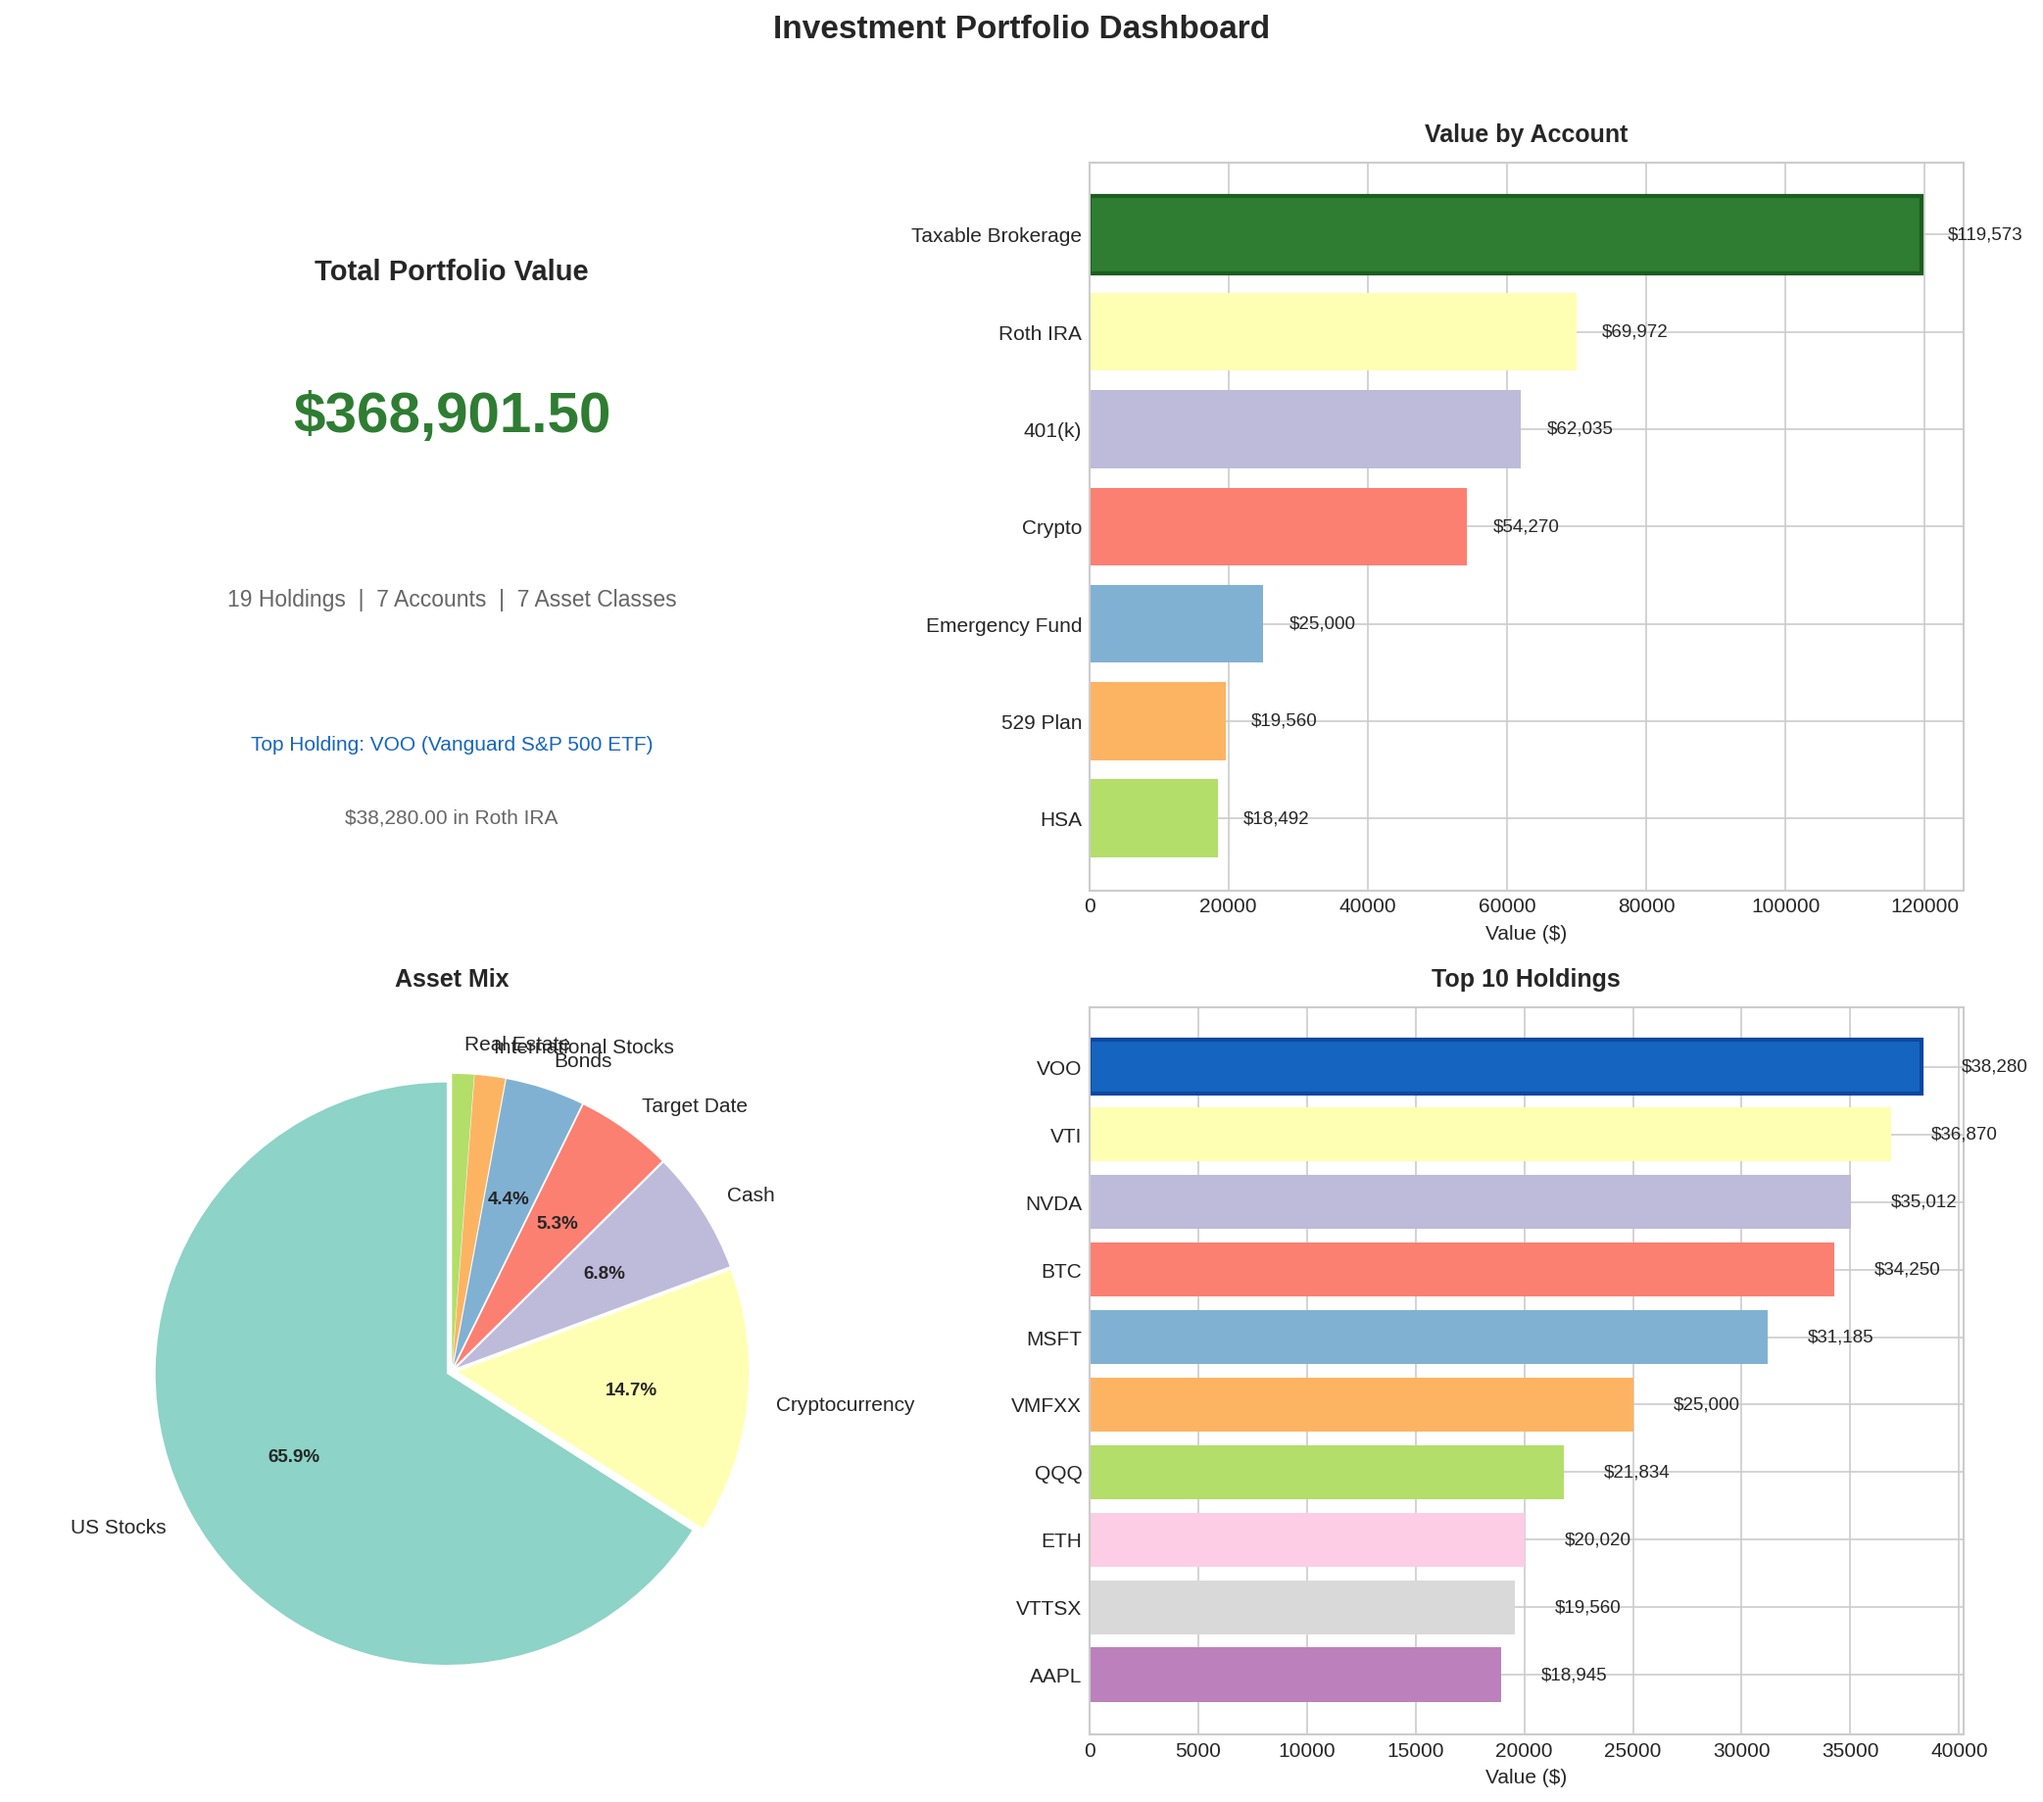
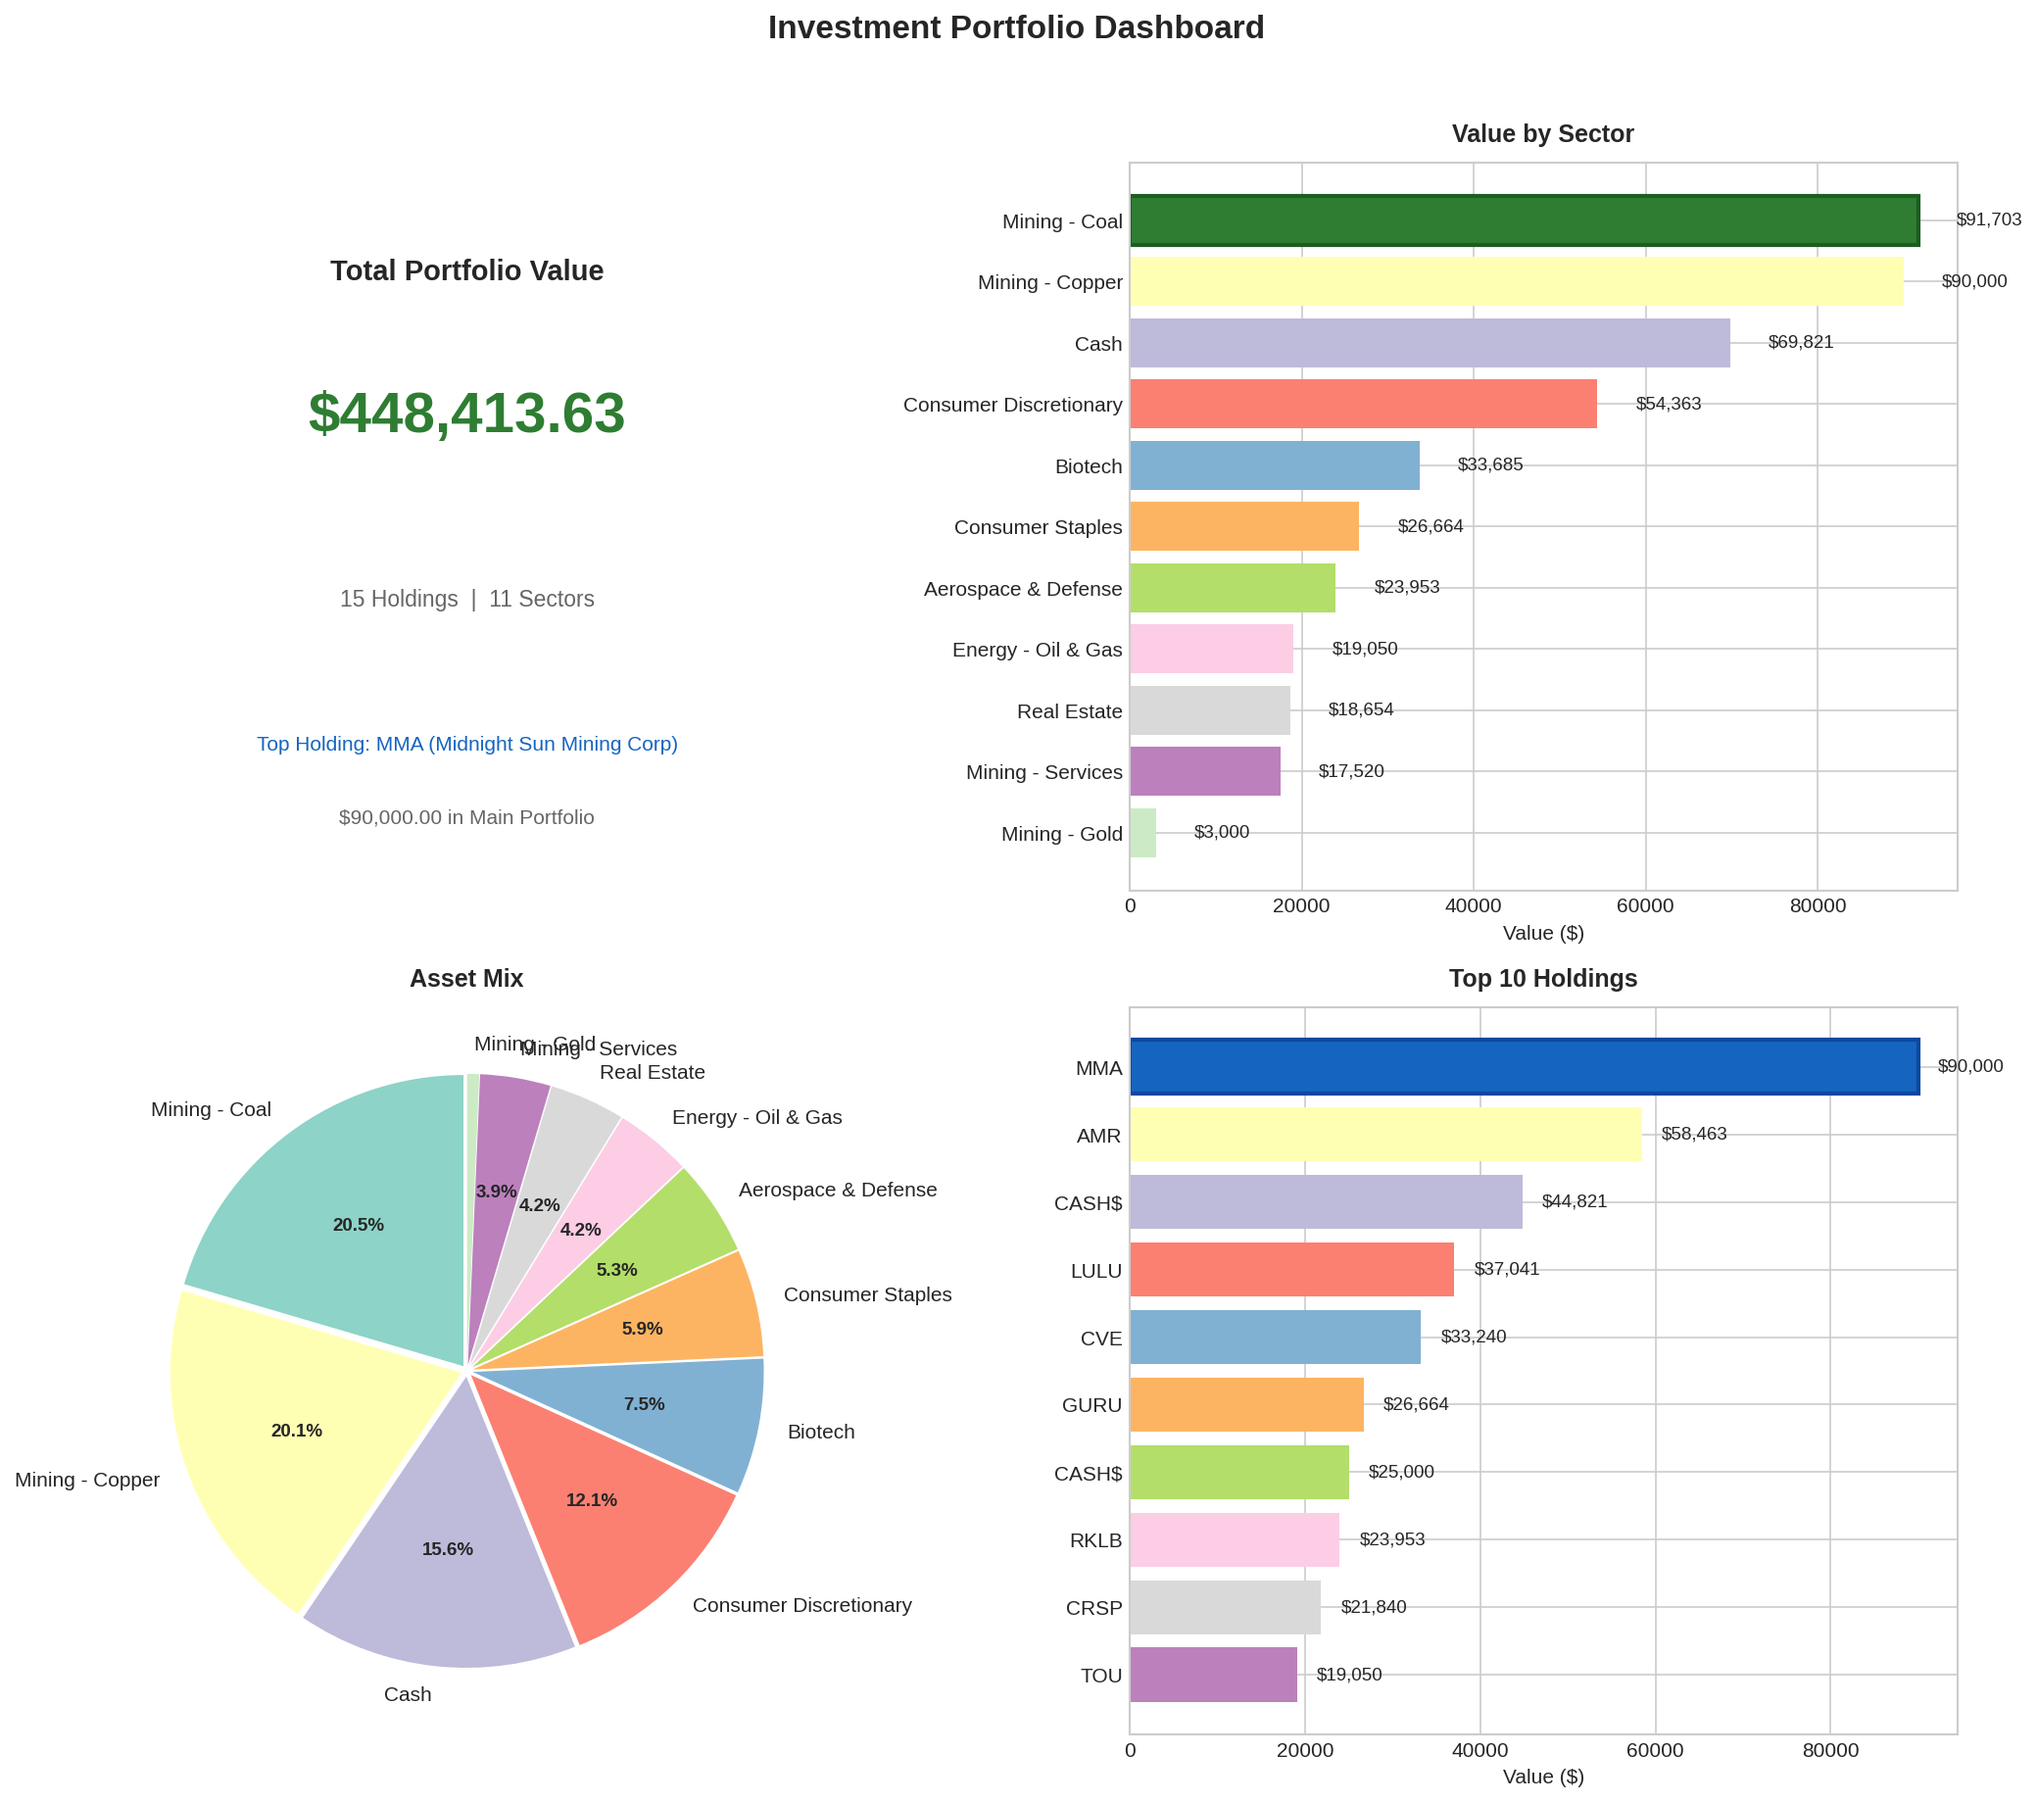
Update visualizer to support Portfolio.ods format
- Add automatic format detection for Portfolio.ods (data-first, headers-later)
- Add asset class inference from ticker/company name
- Show sector breakdown when single account
- Update default file to Portfolio.ods
- Regenerate dashboard with actual portfolio data ($448,413.63 total)

https://claude.ai/code/session_013XgPKdLBRTxDtf2VREobrx

diff --git a/portfolio_visualizer.py b/portfolio_visualizer.py
@@ -16,6 +16,49 @@ import matplotlib.pyplot as plt
 from pathlib import Path
 
 
+# Asset class mappings based on ticker/name patterns
+ASSET_CLASS_RULES = {
+    'CASH$': 'Cash',
+    'MMA': 'Mining - Copper',
+    'AMR': 'Mining - Coal',
+    'CVE': 'Mining - Coal',
+    'WM': 'Mining - Gold',
+    'FAR': 'Mining - Services',
+    'TOU': 'Energy - Oil & Gas',
+    'LAND': 'Real Estate',
+    'LULU': 'Consumer Discretionary',
+    'GURU': 'Consumer Staples',
+    'PZZA': 'Consumer Discretionary',
+    'RKLB': 'Aerospace & Defense',
+    'CRSP': 'Biotech',
+    'BEAM': 'Biotech',
+}
+
+
+def infer_asset_class(ticker: str, name: str) -> str:
+    """Infer asset class from ticker or company name."""
+    ticker = str(ticker).upper()
+    name = str(name).lower()
+
+    # Check direct ticker mapping
+    if ticker in ASSET_CLASS_RULES:
+        return ASSET_CLASS_RULES[ticker]
+
+    # Infer from name patterns
+    if 'mining' in name or 'coal' in name or 'metallurgical' in name:
+        return 'Mining'
+    if 'oil' in name or 'gas' in name or 'energy' in name:
+        return 'Energy'
+    if 'cash' in name:
+        return 'Cash'
+    if 'therapeutics' in name or 'biotech' in name or 'crispr' in name:
+        return 'Biotech'
+    if 'land' in name or 'real estate' in name or 'reit' in name:
+        return 'Real Estate'
+
+    return 'Equities'
+
+
 def load_portfolio_data(ods_file: str) -> pd.DataFrame:
     """Load investment data from an ODS file into a pandas DataFrame."""
     data = pyexcel.get_array(file_name=ods_file)
@@ -23,19 +66,51 @@ def load_portfolio_data(ods_file: str) -> pd.DataFrame:
     if not data or len(data) < 2:
         raise ValueError("ODS file is empty or has no data rows")
 
-    # First row is header
-    header = data[0]
-    rows = data[1:]
+    # Detect format: check if first row looks like headers or data
+    first_row = data[0]
 
-    df = pd.DataFrame(rows, columns=header)
+    # Check for Portfolio.ods format (data first, headers later)
+    # In this format, row 15 contains headers like 'Name', 'Ticker', etc.
+    is_portfolio_format = False
+    for i, row in enumerate(data):
+        if len(row) > 0 and row[0] == 'Name' and len(row) > 1 and row[1] == 'Ticker':
+            is_portfolio_format = True
+            header_row = i
+            break
+
+    if is_portfolio_format:
+        # Portfolio.ods format: data rows come before header row
+        header = ['Name', 'Ticker', 'Price', 'Shares', 'Value', 'Percentage', 'Change', 'Extra1', 'Extra2']
+        rows = []
+        for row in data[:header_row]:
+            # Skip empty rows or rows without valid data
+            if len(row) >= 5 and row[0] and row[4]:
+                try:
+                    value = float(row[4]) if row[4] else 0
+                    if value > 0:
+                        rows.append(row[:9] if len(row) >= 9 else row + [''] * (9 - len(row)))
+                except (ValueError, TypeError):
+                    continue
+
+        df = pd.DataFrame(rows, columns=header)
+    else:
+        # Standard format: first row is header
+        header = data[0]
+        rows = data[1:]
+        df = pd.DataFrame(rows, columns=header)
 
     # Ensure numeric columns are proper types
-    if 'Value' in df.columns:
-        df['Value'] = pd.to_numeric(df['Value'], errors='coerce')
-    if 'Shares' in df.columns:
-        df['Shares'] = pd.to_numeric(df['Shares'], errors='coerce')
-    if 'Price' in df.columns:
-        df['Price'] = pd.to_numeric(df['Price'], errors='coerce')
+    for col in ['Value', 'Shares', 'Price', 'Percentage', 'Change']:
+        if col in df.columns:
+            df[col] = pd.to_numeric(df[col], errors='coerce').fillna(0)
+
+    # Add Asset Class column if not present
+    if 'Asset Class' not in df.columns:
+        df['Asset Class'] = df.apply(lambda row: infer_asset_class(row.get('Ticker', ''), row.get('Name', '')), axis=1)
+
+    # Add Account column if not present (default to 'Main Portfolio')
+    if 'Account' not in df.columns:
+        df['Account'] = 'Main Portfolio'
 
     return df
 
@@ -103,7 +178,10 @@ def create_visualizations(df: pd.DataFrame, metrics: dict, output_dir: str = "."
     num_holdings = len(df)
     num_asset_classes = len(metrics['asset_mix'])
 
-    summary_text = f"{num_holdings} Holdings  |  {num_accounts} Accounts  |  {num_asset_classes} Asset Classes"
+    if num_accounts <= 1:
+        summary_text = f"{num_holdings} Holdings  |  {num_asset_classes} Sectors"
+    else:
+        summary_text = f"{num_holdings} Holdings  |  {num_accounts} Accounts  |  {num_asset_classes} Asset Classes"
     ax1.text(5, 4, summary_text, fontsize=11, ha='center', va='center', color='#666666')
 
     # Top holding info
@@ -113,26 +191,32 @@ def create_visualizations(df: pd.DataFrame, metrics: dict, output_dir: str = "."
     ax1.text(5, 1, f"${top['value']:,.2f} in {top['account']}",
              fontsize=10, ha='center', va='center', color='#666666')
 
-    # 2. Account Breakdown - Horizontal Bar Chart
+    # 2. Sector/Holdings Breakdown - Horizontal Bar Chart
     ax2 = axes[0, 1]
-    account_data = metrics['account_values']
-    y_pos = range(len(account_data))
-    bars = ax2.barh(y_pos, account_data.values, color=[colors[i % len(colors)] for i in range(len(account_data))])
+    # If only one account, show asset class breakdown instead
+    if len(metrics['account_values']) <= 1:
+        breakdown_data = metrics['asset_mix']
+        title = 'Value by Sector'
+    else:
+        breakdown_data = metrics['account_values']
+        title = 'Value by Account'
+
+    y_pos = range(len(breakdown_data))
+    bars = ax2.barh(y_pos, breakdown_data.values, color=[colors[i % len(colors)] for i in range(len(breakdown_data))])
     ax2.set_yticks(y_pos)
-    ax2.set_yticklabels(account_data.index)
+    ax2.set_yticklabels(breakdown_data.index)
     ax2.set_xlabel('Value ($)')
-    ax2.set_title('Value by Account', fontsize=12, fontweight='bold', pad=10)
+    ax2.set_title(title, fontsize=12, fontweight='bold', pad=10)
 
     # Add value labels on bars
-    for i, (bar, val) in enumerate(zip(bars, account_data.values)):
+    for i, (bar, val) in enumerate(zip(bars, breakdown_data.values)):
         ax2.text(val + metrics['total_value'] * 0.01, bar.get_y() + bar.get_height()/2,
                  f'${val:,.0f}', va='center', fontsize=9)
 
-    # Highlight largest account
-    largest_idx = list(account_data.index).index(metrics['largest_account'])
-    bars[largest_idx].set_color('#2E7D32')
-    bars[largest_idx].set_edgecolor('#1B5E20')
-    bars[largest_idx].set_linewidth(2)
+    # Highlight largest item
+    bars[0].set_color('#2E7D32')
+    bars[0].set_edgecolor('#1B5E20')
+    bars[0].set_linewidth(2)
 
     ax2.invert_yaxis()
 
@@ -229,7 +313,7 @@ def print_summary(metrics: dict):
 def main():
     """Main entry point."""
     # Default ODS file path
-    ods_file = "investment_portfolio.ods"
+    ods_file = "Portfolio.ods"
 
     # Allow command line argument for file path
     if len(sys.argv) > 1:
